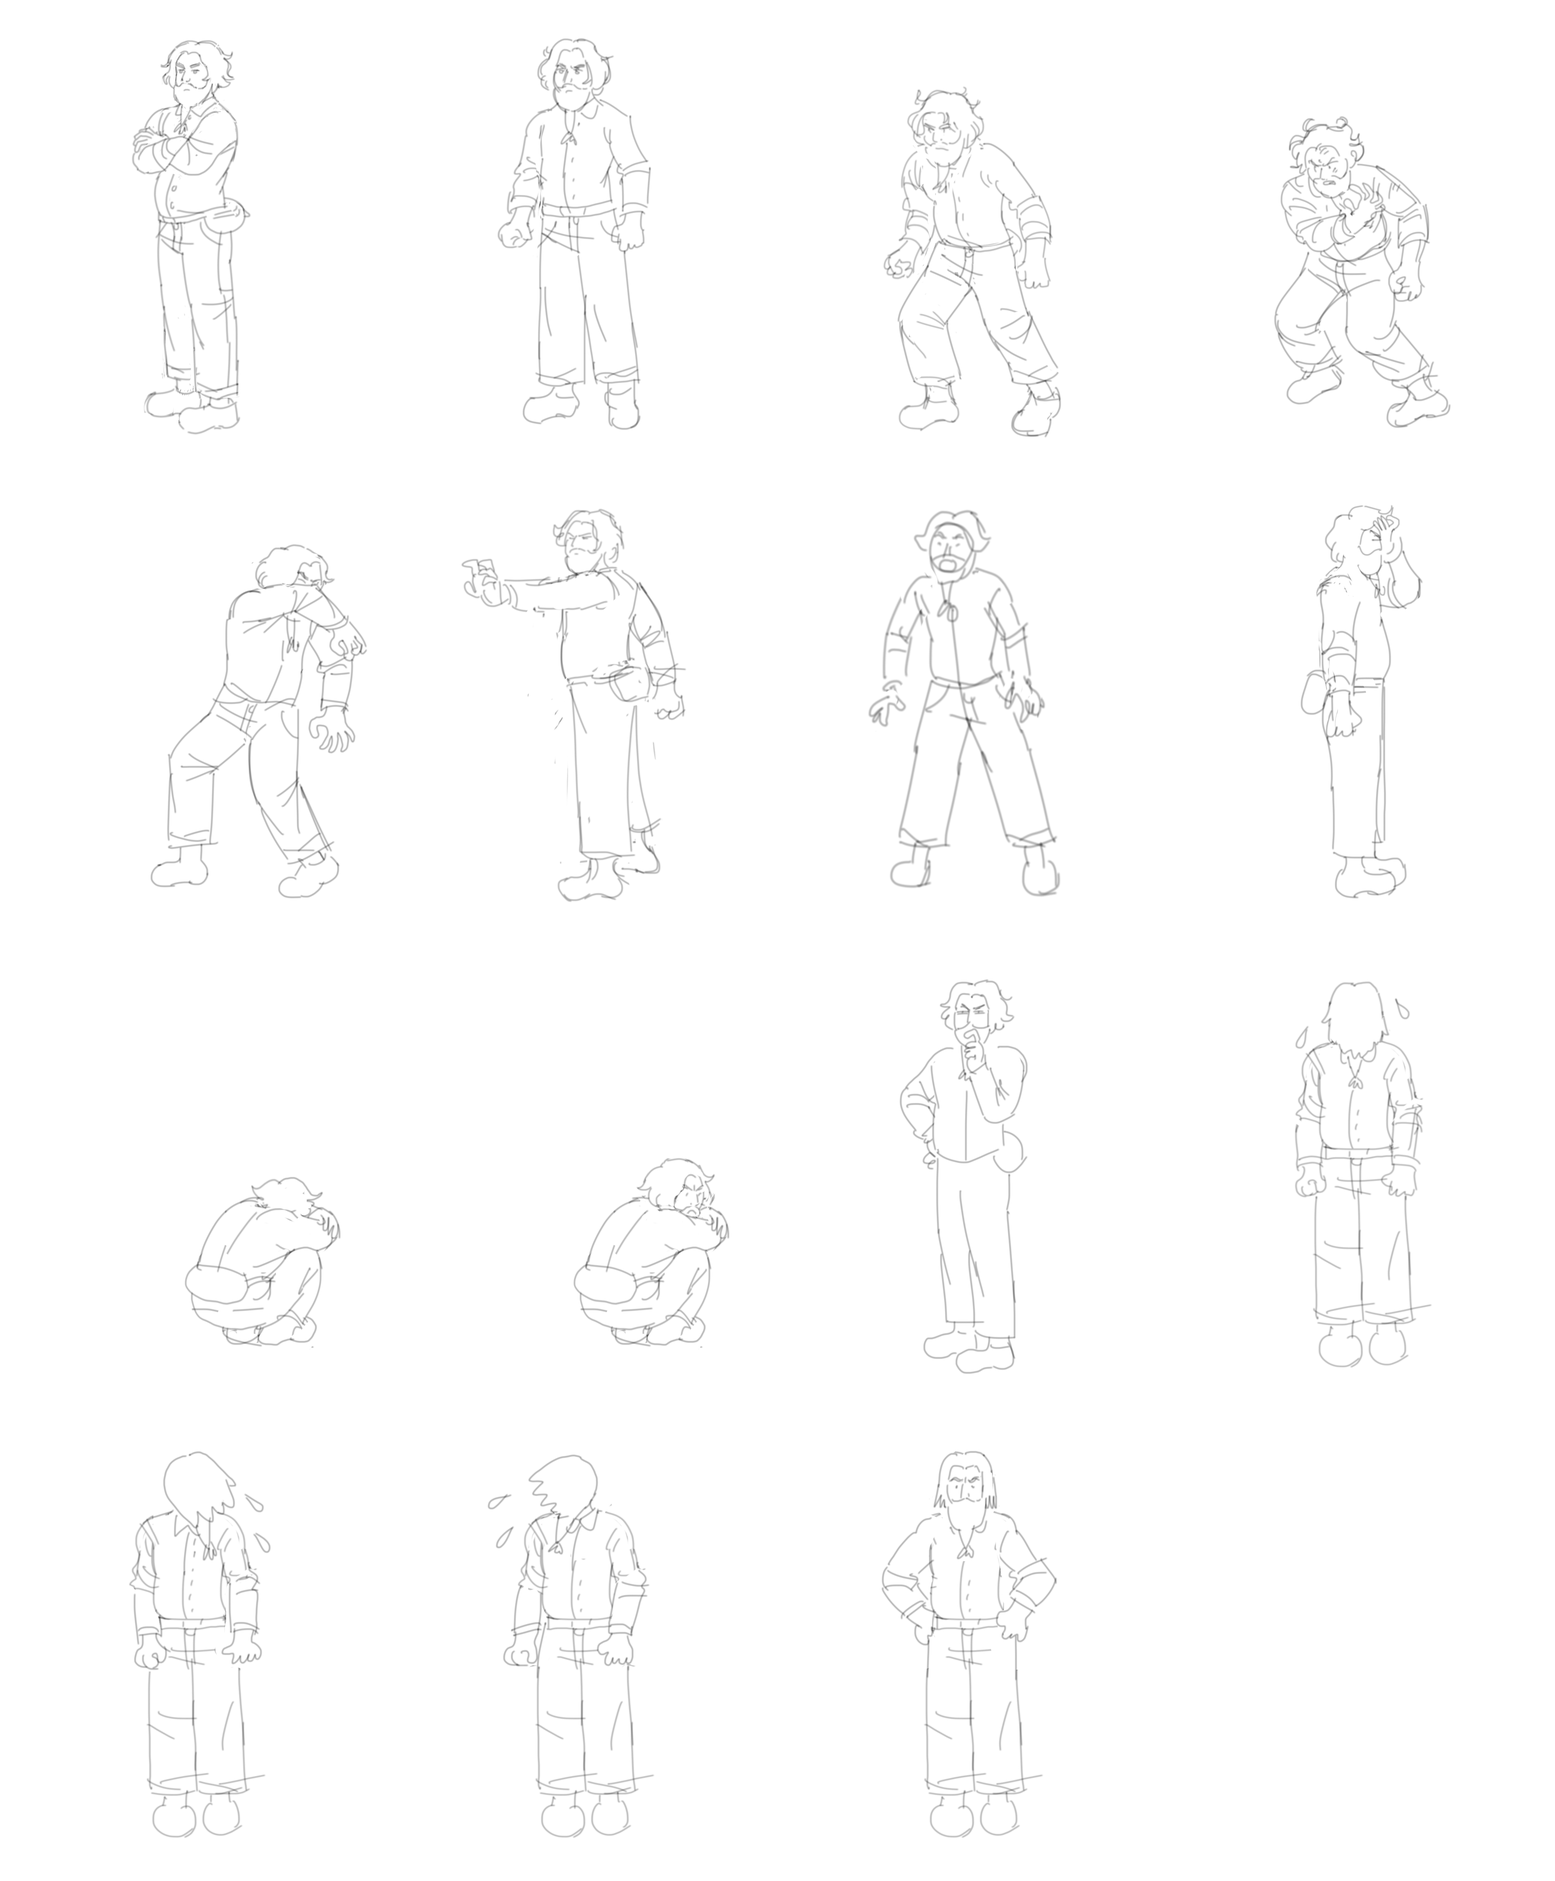
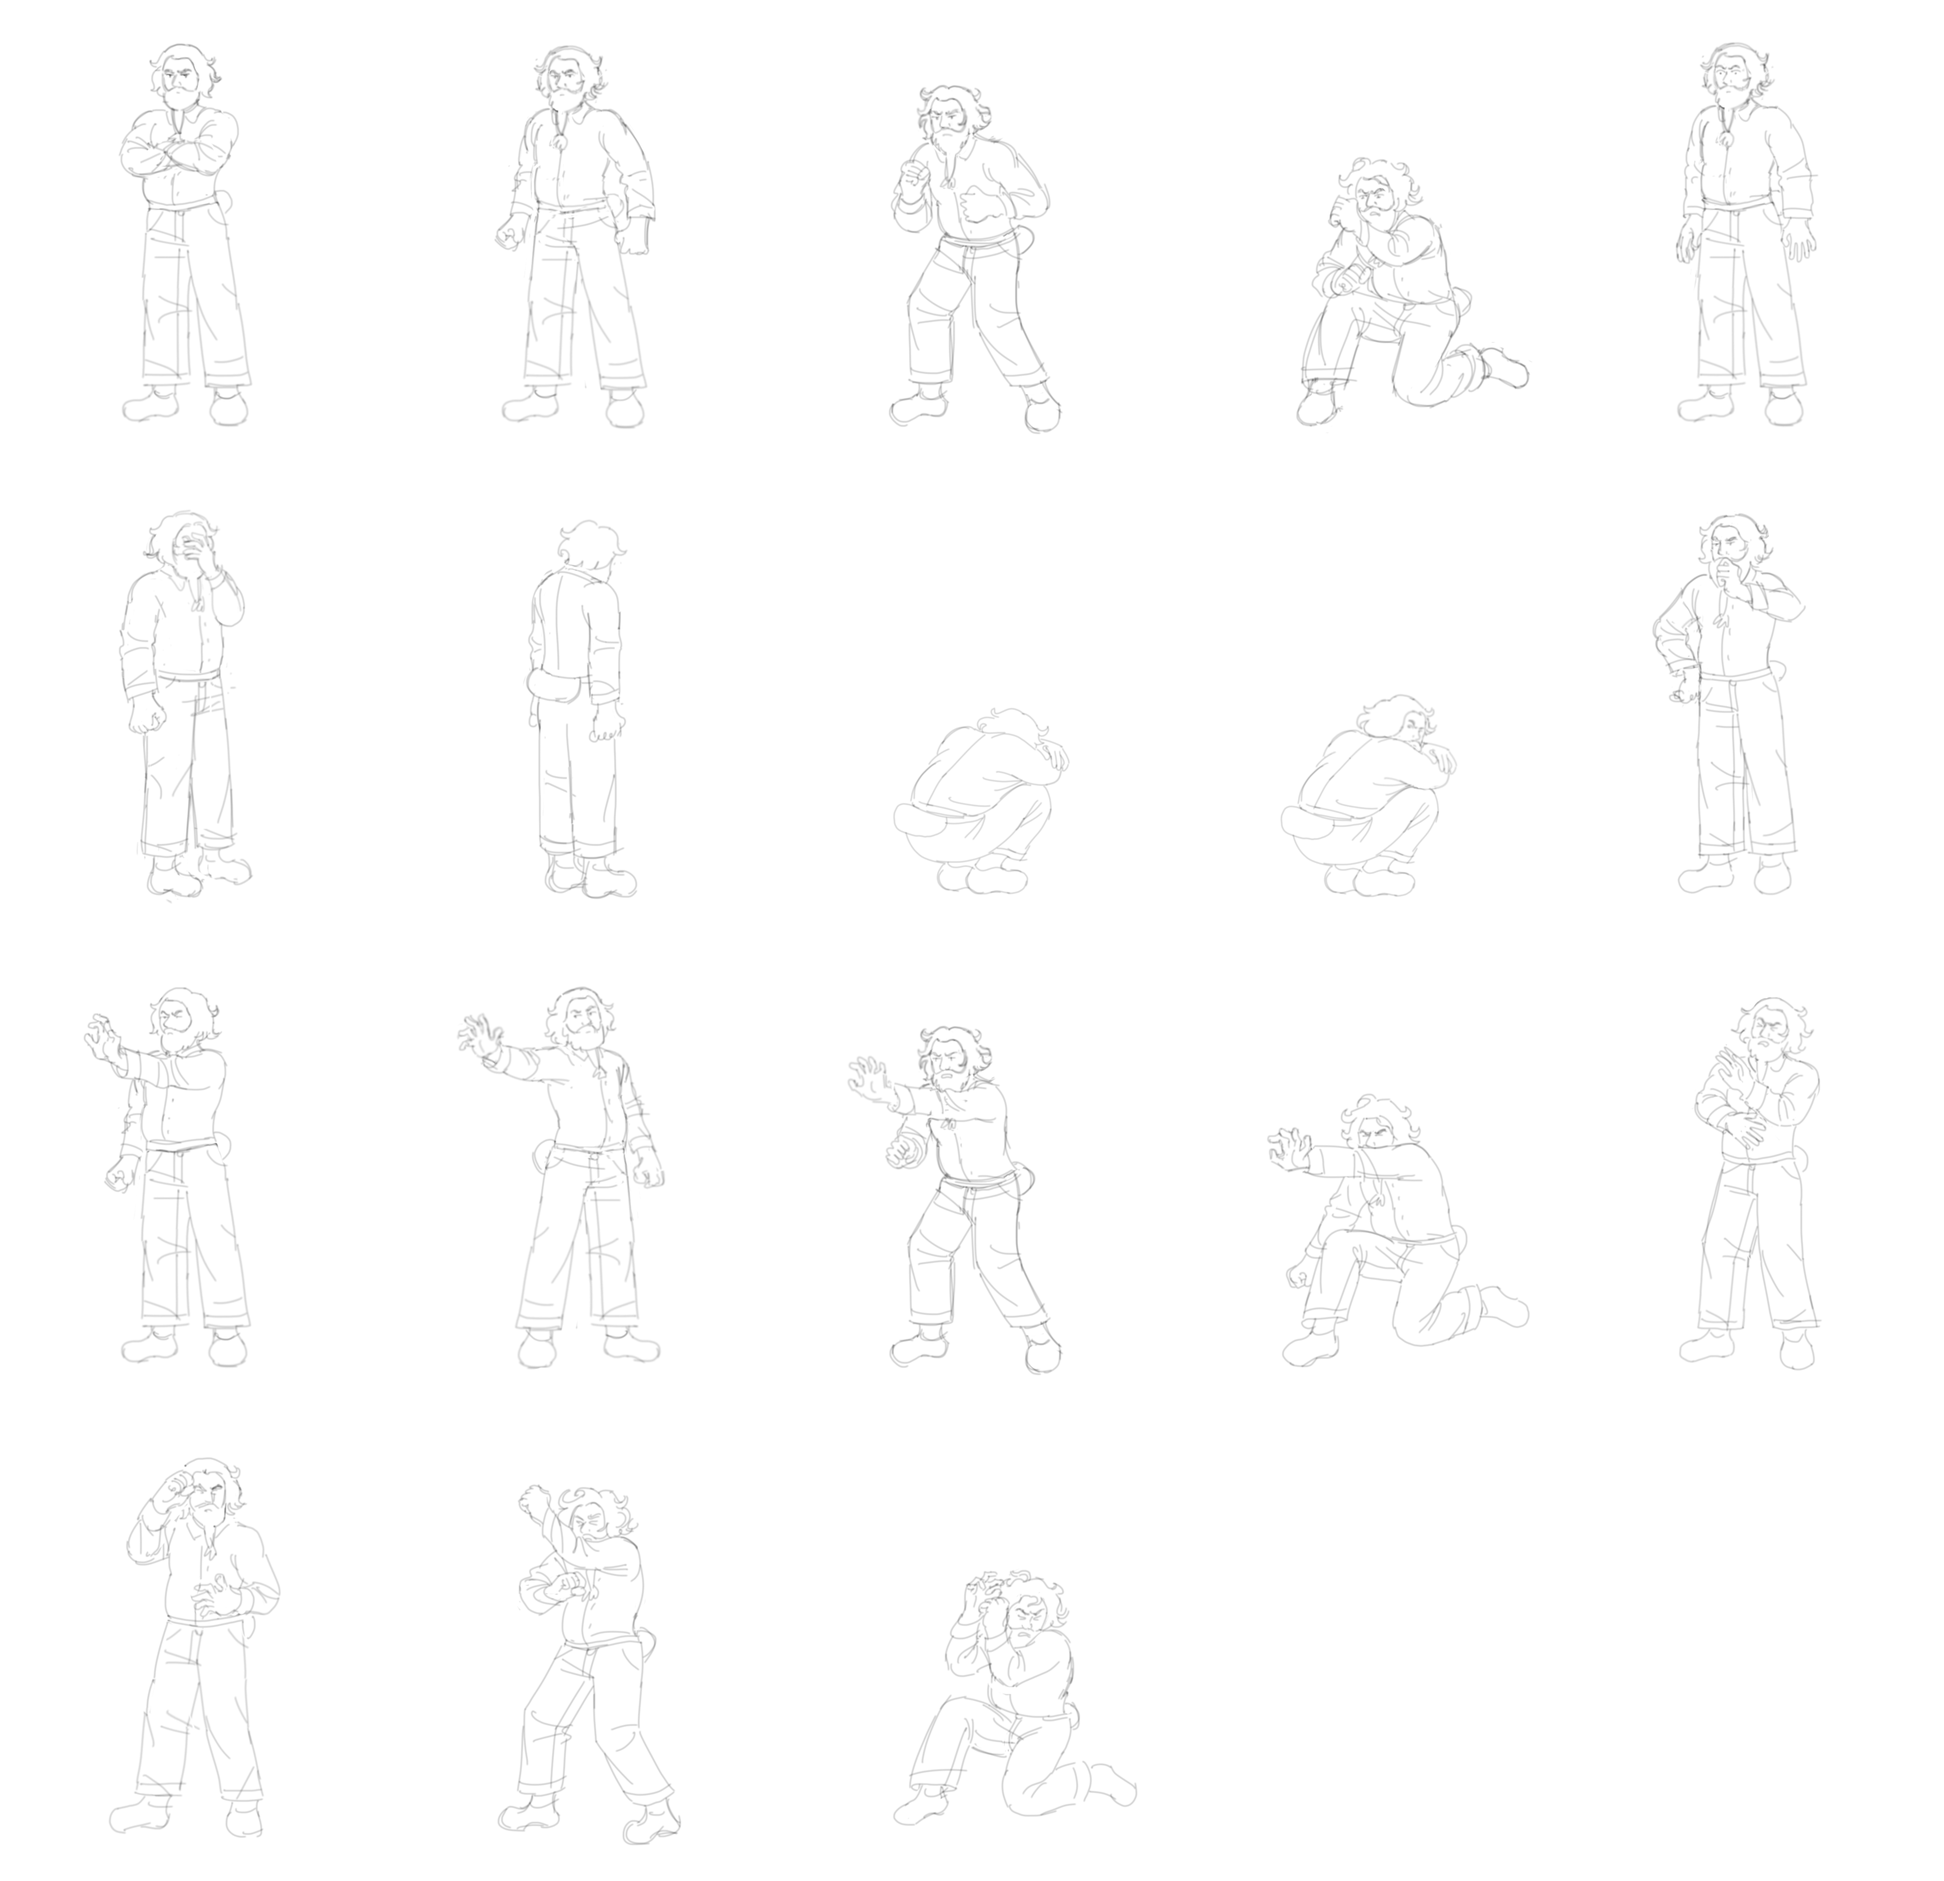
new spritesheet and I believe I fixed hidden hook issue

diff --git a/battle/src/battle/battle-guy-enemy.js b/battle/src/battle/battle-guy-enemy.js
@@ -81,8 +81,47 @@ export class EnemyBattleGuy extends BattleGuy {
       frames: this._scene.anims.generateFrameNumbers(
         FIGHTER_ASSET_KEYS.ENEMY,
         {
-          start: 4,
-          end: 4,
+          start: 14,
+          end: 14,
+        }
+      ),
+      frameRate: 6,
+      repeat: 0,
+    });
+
+        this._scene.anims.create({
+      key: 'enemy-hurt-2',
+      frames: this._scene.anims.generateFrameNumbers(
+        FIGHTER_ASSET_KEYS.ENEMY,
+        {
+          start: 15,
+          end: 15,
+        }
+      ),
+      frameRate: 6,
+      repeat: 0,
+    });
+
+        this._scene.anims.create({
+      key: 'enemy-hurt-3',
+      frames: this._scene.anims.generateFrameNumbers(
+        FIGHTER_ASSET_KEYS.ENEMY,
+        {
+          start: 16,
+          end: 16,
+        }
+      ),
+      frameRate: 6,
+      repeat: 0,
+    });
+
+        this._scene.anims.create({
+      key: 'enemy-hurt-4',
+      frames: this._scene.anims.generateFrameNumbers(
+        FIGHTER_ASSET_KEYS.ENEMY,
+        {
+          start: 17,
+          end: 17,
         }
       ),
       frameRate: 6,
@@ -94,8 +133,47 @@ export class EnemyBattleGuy extends BattleGuy {
       frames: this._scene.anims.generateFrameNumbers(
         FIGHTER_ASSET_KEYS.ENEMY,
         {
-          start: 5,
-          end: 5,
+          start: 10,
+          end: 10,
+        }
+      ),
+      frameRate: 6,
+      repeat: 0,
+    });
+
+        this._scene.anims.create({
+      key: 'enemy-attack-2',
+      frames: this._scene.anims.generateFrameNumbers(
+        FIGHTER_ASSET_KEYS.ENEMY,
+        {
+          start: 11,
+          end: 11,
+        }
+      ),
+      frameRate: 6,
+      repeat: 0,
+    });
+
+        this._scene.anims.create({
+      key: 'enemy-attack-3',
+      frames: this._scene.anims.generateFrameNumbers(
+        FIGHTER_ASSET_KEYS.ENEMY,
+        {
+          start: 12,
+          end: 12,
+        }
+      ),
+      frameRate: 6,
+      repeat: 0,
+    });
+
+        this._scene.anims.create({
+      key: 'enemy-attack-4',
+      frames: this._scene.anims.generateFrameNumbers(
+        FIGHTER_ASSET_KEYS.ENEMY,
+        {
+          start: 13,
+          end: 13,
         }
       ),
       frameRate: 6,
@@ -107,8 +185,47 @@ export class EnemyBattleGuy extends BattleGuy {
       frames: this._scene.anims.generateFrameNumbers(
         FIGHTER_ASSET_KEYS.ENEMY,
         {
+          start: 4,
+          end: 4,
+        }
+      ),
+      frameRate: .5,
+      repeat: 0,
+    });
+
+        this._scene.anims.create({
+      key: 'enemy-pranked-2',
+      frames: this._scene.anims.generateFrameNumbers(
+        FIGHTER_ASSET_KEYS.ENEMY,
+        {
+          start: 5,
+          end: 5,
+        }
+      ),
+      frameRate: .5,
+      repeat: 0,
+    });
+
+        this._scene.anims.create({
+      key: 'enemy-pranked-3',
+      frames: this._scene.anims.generateFrameNumbers(
+        FIGHTER_ASSET_KEYS.ENEMY,
+        {
           start: 6,
-          end: 8,
+          end: 6,
+        }
+      ),
+      frameRate: .5,
+      repeat: 0,
+    });
+
+    this._scene.anims.create({
+      key: 'enemy-pranked-4',
+      frames: this._scene.anims.generateFrameNumbers(
+        FIGHTER_ASSET_KEYS.ENEMY,
+        {
+          start: 7,
+          end: 7,
         }
       ),
       frameRate: .5,
@@ -120,8 +237,8 @@ export class EnemyBattleGuy extends BattleGuy {
       frames: this._scene.anims.generateFrameNumbers(
         FIGHTER_ASSET_KEYS.ENEMY,
         {
-          start: 9,
-          end: 9,
+          start: 8,
+          end: 8,
         }
       ),
       frameRate: 3,
@@ -133,26 +250,14 @@ export class EnemyBattleGuy extends BattleGuy {
       frames: this._scene.anims.generateFrameNumbers(
         FIGHTER_ASSET_KEYS.ENEMY,
         {
-          start: 10,
-          end: 10,
+          start: 9,
+          end: 9,
         }
       ),
       frameRate: 3,
       repeat: 0,
     });
 
-    this._scene.anims.create({
-      key: 'enemy-wet',
-      frames: this._scene.anims.generateFrameNumbers(
-        FIGHTER_ASSET_KEYS.ENEMY,
-        {
-          start: 11,
-          end: 14,
-        }
-      ),
-      frameRate: 2,
-      repeat: 0,
-    });
   }
 
   get isStunned() {
@@ -256,8 +361,8 @@ export class EnemyBattleGuy extends BattleGuy {
   playSulkAnimation() {
     this._guyGameSprite.play("enemy-sulk");
     this._scene.time.delayedCall(1000, () => {
-      this._guyGameSprite.play('enemy-pranked');
-      this._guyGameSprite.anims.setProgress(1);
+      this._guyGameSprite.play('enemy-pranked-4');
+      //this._guyGameSprite.anims.setProgress(1);
       //this._guyGameSprite.anims.get('enemy-pranked').getLastFrame();
     });
   };
@@ -277,7 +382,7 @@ export class EnemyBattleGuy extends BattleGuy {
   };
 
   playWetAnimation() {
-    this._guyGameSprite.play("enemy-wet");
+    //this._guyGameSprite.play("enemy-wet");
     this._scene.time.delayedCall(1000, () => {
       this.playIdleAnimation();
     });

diff --git a/index.html b/index.html
@@ -137,6 +137,10 @@ tw-hook.empty {
 	display: none !important;
 }
 
+tw-hook[name="dialogue"]:empty {
+    display: none !important;
+}
+
 /*
 CHOICES STYLING
 */
